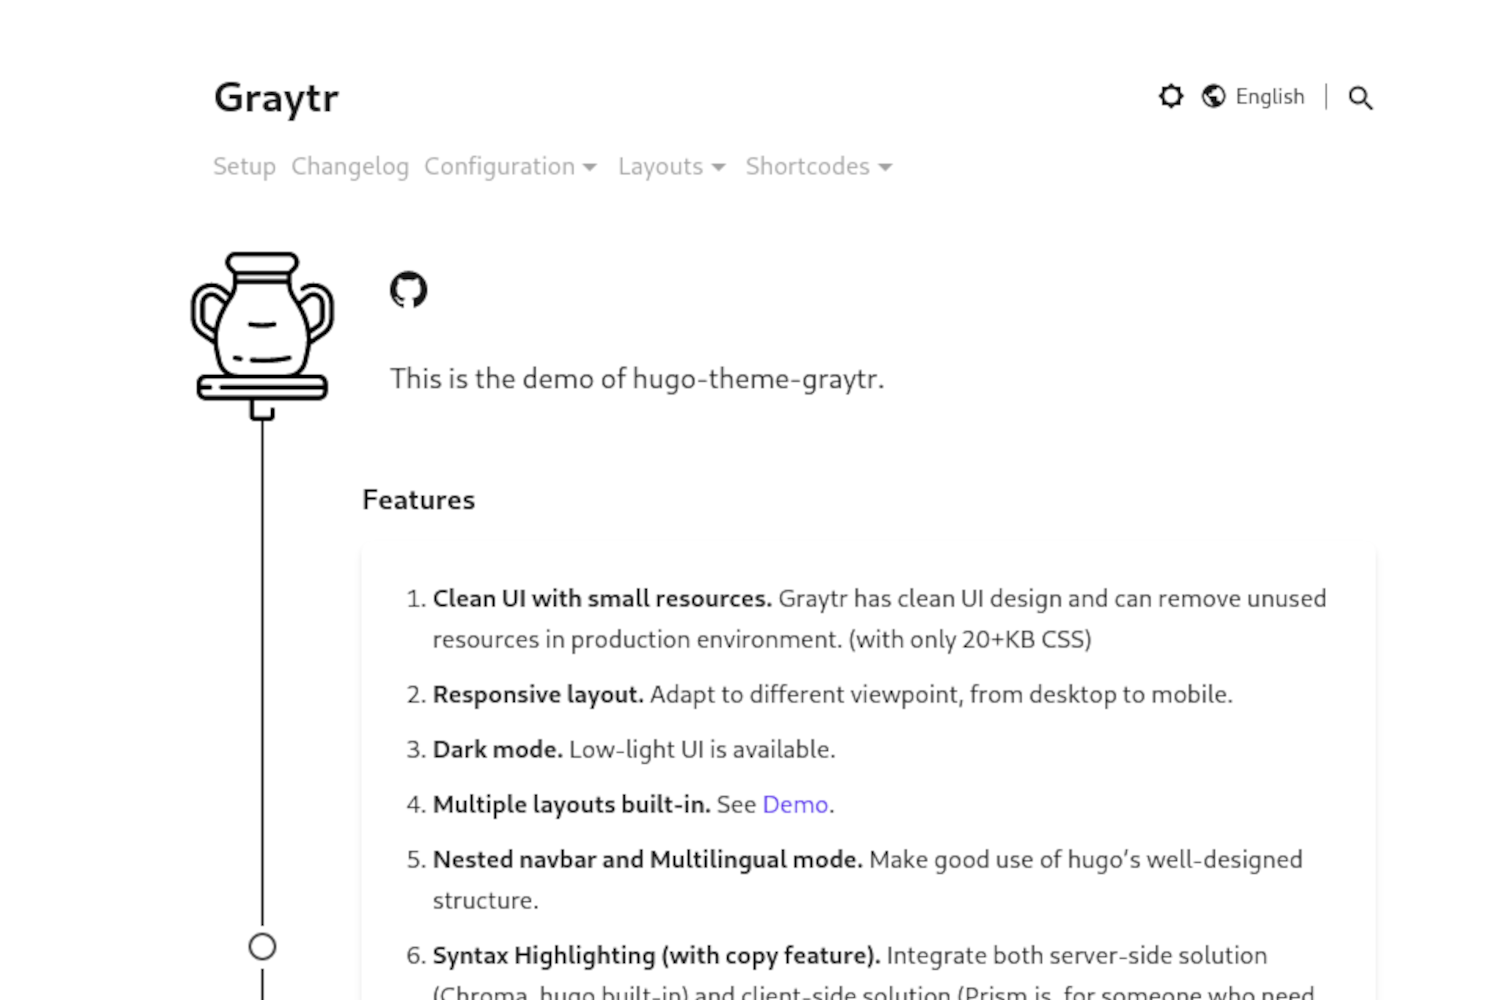
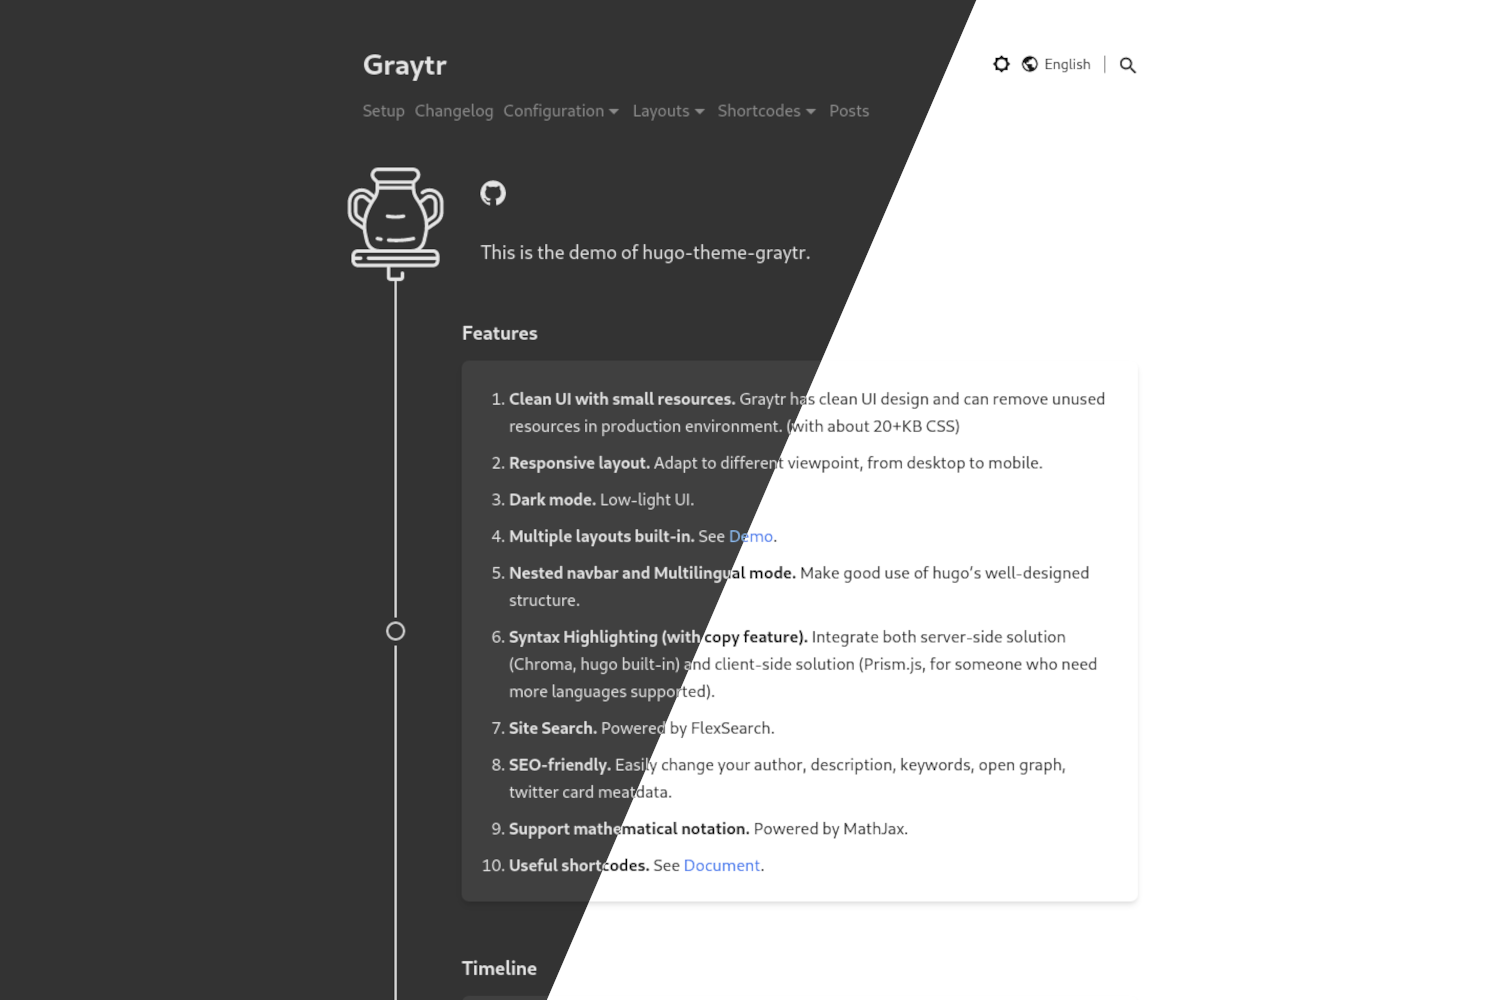
Update README.md

diff --git a/exampleSite/content/en/about/features.md b/exampleSite/content/en/about/features.md
@@ -12,13 +12,13 @@ gallery_statistic:
   value: value3
 ---
 
-1. **Clean UI with small resources.** Graytr has clean UI design and can remove unused resources in production environment. (with only 20+KB CSS)
+1. **Clean UI with small resources.** Graytr has clean UI design and can remove unused resources in production environment. (with about 20+KB CSS)
 2. **Responsive layout.** Adapt to different viewpoint, from desktop to mobile.
 3. **Dark mode.** Low-light UI.
 4. **Multiple layouts built-in.** See [Demo](https://kaiiiz.github.io/hugo-theme-graytr/layouts/demo/).
 5. **Nested navbar and Multilingual mode.** Make good use of hugo's well-designed structure.
 6. **Syntax Highlighting (with copy feature).** Integrate both server-side solution (Chroma, hugo built-in) and client-side solution (Prism.js, for someone who need more languages supported).
 7. **Site Search.** Powered by FlexSearch. 
-8. **SEO-ready.** Easily change your author, description, keywords, open graph, twitter card meatdata.
+8. **SEO-friendly.** Easily change your author, description, keywords, open graph, twitter card meatdata.
 9. **Support mathematical notation.** Powered by MathJax.
 10. **Useful shortcodes.** See [Document](https://kaiiiz.github.io/hugo-theme-graytr/shortcodes/).

diff --git a/exampleSite/content/zh-tw/about/features.md b/exampleSite/content/zh-tw/about/features.md
@@ -12,13 +12,13 @@ gallery_statistic:
   value: value3
 ---
 
-1. **Clean UI with small resources.** Graytr has clean UI design and can remove unused resources in production environment. (with only 20+KB CSS)
+1. **Clean UI with small resources.** Graytr has clean UI design and can remove unused resources in production environment. (with about 20+KB CSS)
 2. **Responsive layout.** Adapt to different viewpoint, from desktop to mobile.
 3. **Dark mode.** Low-light UI.
 4. **Multiple layouts built-in.** See [Demo](https://kaiiiz.github.io/hugo-theme-graytr/layouts/demo/).
 5. **Nested navbar and Multilingual mode.** Make good use of hugo's well-designed structure.
 6. **Syntax Highlighting (with copy feature).** Integrate both server-side solution (Chroma, hugo built-in) and client-side solution (Prism.js, for someone who need more languages supported).
 7. **Site Search.** Powered by FlexSearch. 
-8. **SEO-ready.** Easily change your author, description, keywords, open graph, twitter card meatdata.
+8. **SEO-friendly.** Easily change your author, description, keywords, open graph, twitter card meatdata.
 9. **Support mathematical notation.** Powered by MathJax.
 10. **Useful shortcodes.** See [Document](https://kaiiiz.github.io/hugo-theme-graytr/shortcodes/).

diff --git a/README.md b/README.md
@@ -18,7 +18,7 @@ See [kaiiiz.github.io/hugo-theme-graytr](https://kaiiiz.github.io/hugo-theme-gra
 
 ## Features
 
-1. **Clean UI with small resources.** Graytr has clean UI design and can remove unused resources in production environment. (with only 20+KB CSS)
+1. **Clean UI with small resources.** Graytr has clean UI design and can remove unused resources in production environment. (with about 20+KB CSS)
 
 2. **Responsive layout.** Adapt to different viewpoint, from desktop to mobile.
 
@@ -32,7 +32,7 @@ See [kaiiiz.github.io/hugo-theme-graytr](https://kaiiiz.github.io/hugo-theme-gra
 
 7. **Site Search.** Powered by FlexSearch.
 
-8. **SEO-ready.** Easily change your author, description, keywords, open graph, twitter card meatdata.
+8. **SEO-friendly.** Easily change your author, description, keywords, open graph, twitter card meatdata.
 
 9. **Support mathematical notation.** Powered by MathJax.
 
